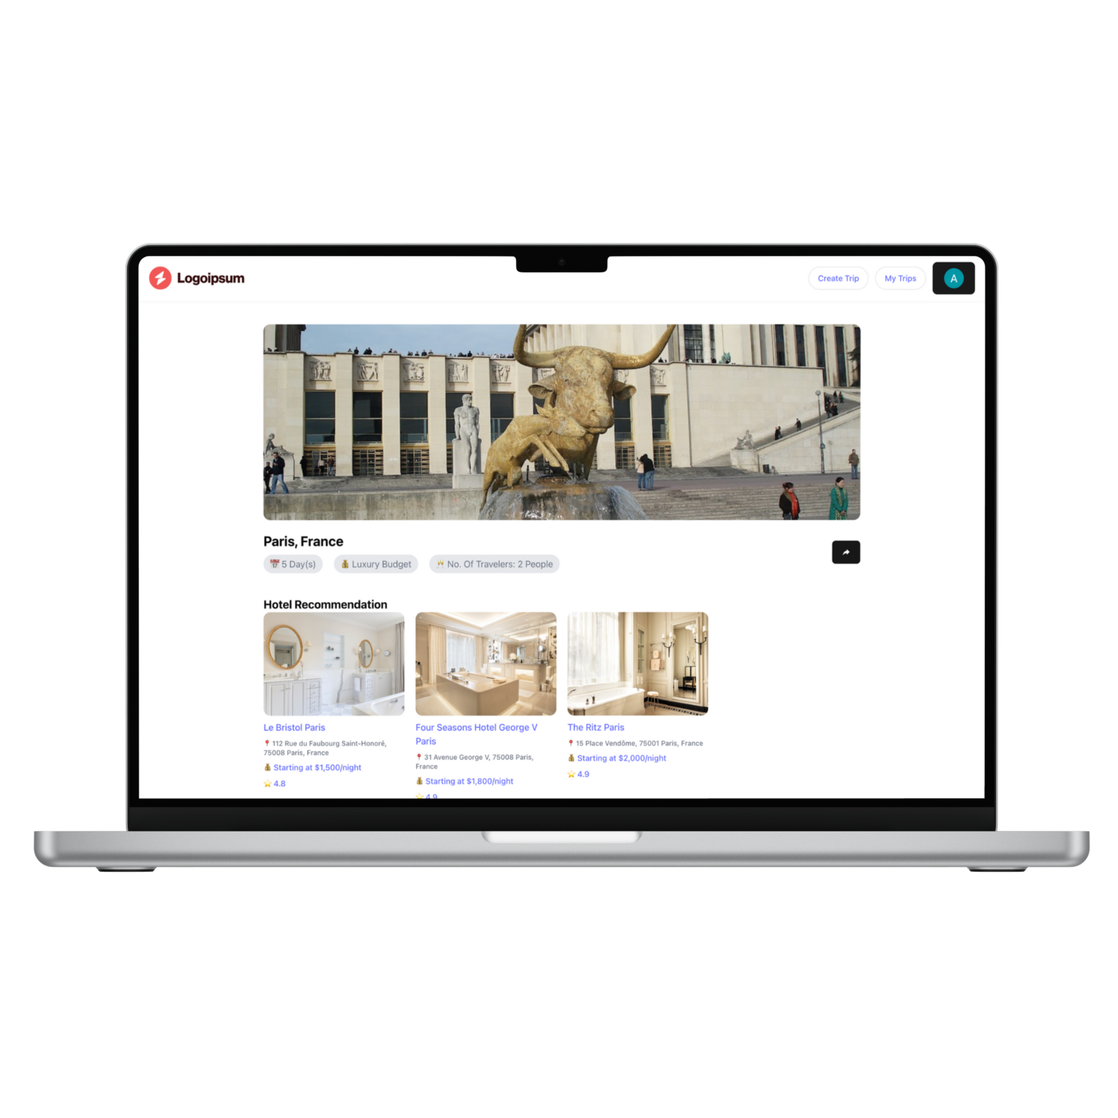
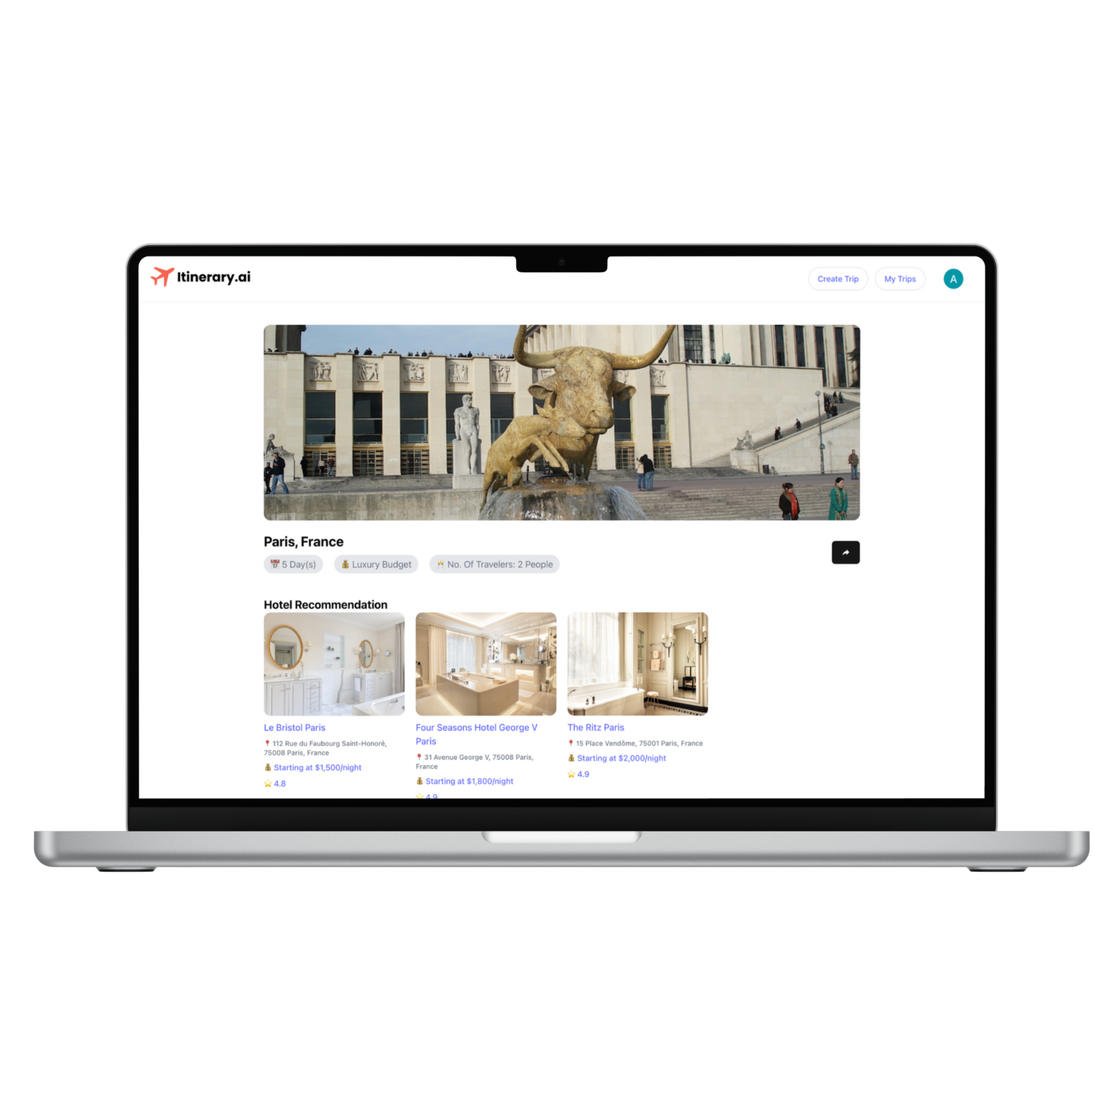
Final Touches

diff --git a/src/service/AIModel.jsx b/src/service/AIModel.jsx
@@ -22,13 +22,13 @@ import { GoogleGenerativeAI } from "@google/generative-ai";
         {
           role: "user",
           parts: [
-            {text: "Generate a Travel Plan for Location: Las Vegas, for 3 Days for Couple with a Cheap Budget, give me a hotels option list with hotel name, hotel address, price, hotel image url, geo coordinates, rating, descriptions, and suggest an itinerary with the time at each place (i.e. 1:00 PM - 4:00 PM), place name, place details, place image url, geo coordinates, ticket pricing, rating, and time to travel to each location for 3 days with each day plan with best time to visit in JSON format. For the days for the itinerary, in JSON format, make sure that it is indexed in a list, so index 0 would have day: Day 1, index 1 would have day: Day 2, and the same for the rest of the days."},
+            {text: "Generate a Travel Plan for Location: Las Vegas, for 3 Days for Couple with a Cheap Budget, give me a hotels option list with hotel name, hotel address, price, hotel image url, geo coordinates, rating, descriptions, and suggest an itinerary with the time at each place (i.e. 1:00 PM - 4:00 PM), place name, place details, place image url, geo coordinates, ticket pricing, rating, and time to travel to each of the location (in hours or minutes or both, not just words) for 3 days with each day plan with best time to visit in JSON format. For the days for the itinerary, in JSON format, make sure that it is indexed in a list, so index 0 would have day: Day 1, index 1 would have day: Day 2, and the same for the rest of the days."},
           ],
         },
         {
           role: "model",
           parts: [
-            {text: "```json\n{\n  \"location\": \"Las Vegas\",\n  \"duration\": \"3 Days\",\n  \"budget\": \"Cheap\",\n    \"hotels\": [\n    {\n      \"hotel_name\": \"Circus Circus Hotel & Casino\",\n      \"hotel_address\": \"2880 S Las Vegas Blvd, Las Vegas, NV 89109\",\n      \"price\": \"Starting at $40/night\",\n      \"hotel_image_url\": \"https://dynamic-media-cdn.tripadvisor.com/media/photo-o/26/01/5d/85/circus-circus-hotel-casino.jpg?w=700&h=-1&s=1\",\n      \"geo_coordinates\": {\n        \"latitude\": 36.1440,\n        \"longitude\": -115.1699\n      },\n      \"rating\": 3.5,\n      \"description\": \"A classic Vegas hotel with a circus theme, offering affordable rooms and family-friendly entertainment.  Features a large casino, free circus acts, and the Adventuredome indoor theme park.\"\n    },\n    {\n      \"hotel_name\": \"Excalibur Hotel & Casino\",\n        \"hotel_address\": \"3850 S Las Vegas Blvd, Las Vegas, NV 89109\",\n        \"price\": \"Starting at $50/night\",\n        \"hotel_image_url\": \"https://dynamic-media-cdn.tripadvisor.com/media/photo-o/27/c3/1c/43/excalibur-hotel-casino.jpg?w=700&h=-1&s=1\",\n        \"geo_coordinates\": {\n          \"latitude\": 36.0983,\n          \"longitude\": -115.1703\n        },\n        \"rating\": 4.0,\n        \"description\": \"A medieval-themed hotel known for its castle design and affordable accommodations. Offers several dining options, a pool complex, and nightly shows.\"\n    },\n    {\n        \"hotel_name\": \"The LINQ Hotel + Experience\",\n        \"hotel_address\": \"3535 S Las Vegas Blvd, Las Vegas, NV 89109\",\n        \"price\": \"Starting at $60/night\",\n        \"hotel_image_url\": \"https://dynamic-media-cdn.tripadvisor.com/media/photo-o/27/c9/c9/2e/the-linq-hotel-experience.jpg?w=700&h=-1&s=1\",\n        \"geo_coordinates\": {\n          \"latitude\": 36.1171,\n            \"longitude\": -115.1691\n        },\n        \"rating\": 4.2,\n        \"description\":\"Modern hotel with a vibrant atmosphere, featuring a variety of shops, restaurants, and the High Roller observation wheel. Centrally located on the Strip.\"\n    }\n  ],\n    \"itinerary\": [\n      {\n        \"day\": \"Day 1\",\n        \"best_time_to_visit\": \"Morning and Afternoon\",\n          \"activities\": [\n            {\n              \"time\": \"9:00 AM - 11:00 AM\",\n              \"place_name\": \"Welcome to Las Vegas Sign\",\n              \"place_details\": \"Iconic Las Vegas landmark, great for photos. Quick stop.\",\n              \"place_image_url\": \"https://upload.wikimedia.org/wikipedia/commons/thumb/f/f7/Welcome_to_Las_Vegas_sign.jpg/1280px-Welcome_to_Las_Vegas_sign.jpg\",\n              \"geo_coordinates\": {\n                  \"latitude\": 36.0824,\n                  \"longitude\": -115.1723\n                },\n              \"ticket_pricing\": \"Free\",\n              \"rating\": 4.5,\n                \"travel_time_to_next_location\": \"15 minutes by Bus\"\n             },\n             {\n                \"time\": \"11:30 AM - 2:00 PM\",\n                \"place_name\": \"Bellagio Conservatory & Botanical Garden\",\n                \"place_details\": \"Beautiful indoor botanical garden with seasonal displays. Free to enter.\",\n                \"place_image_url\": \"https://dynamic-media-cdn.tripadvisor.com/media/photo-o/22/a5/8b/1a/bellagio-conservatory-botanical.jpg?w=700&h=-1&s=1\",\n                \"geo_coordinates\": {\n                    \"latitude\": 36.1126,\n                    \"longitude\": -115.1738\n                },\n                \"ticket_pricing\": \"Free\",\n                \"rating\": 4.7,\n                \"travel_time_to_next_location\":\"10 minute walk\"\n            },\n            {\n               \"time\":\"2:10 PM - 4:00 PM\",\n               \"place_name\": \"Fountains of Bellagio\",\n               \"place_details\":\"World-famous water show in front of the Bellagio Hotel. Best viewed from the street.\",\n               \"place_image_url\":\"https://dynamic-media-cdn.tripadvisor.com/media/photo-o/25/64/66/54/fountains-of-bellagio.jpg?w=700&h=-1&s=1\",\n               \"geo_coordinates\": {\n                \"latitude\": 36.1128,\n                \"longitude\": -115.1741\n            },\n                \"ticket_pricing\": \"Free\",\n                \"rating\": 4.8,\n                \"travel_time_to_next_location\":\"10 minute walk\"\n            },\n            {\n                \"time\":\"4:10 PM - 7:00 PM\",\n                \"place_name\": \"Explore the Strip\",\n                \"place_details\": \"Walk down the Las Vegas Strip, enjoy the free sights, and street performers. Explore the different hotels.\",\n               \"place_image_url\": \"https://www.travelandleisure.com/thmb/qU04dYxY-lX6H8y9uE1hB5B8G8E=/1500x0/filters:no_upscale():max_bytes(150000):strip_icc()/las-vegas-strip-night-LVSTRIP0421-83662d8f24364378898303b220d2f98c.jpg\",\n                \"geo_coordinates\": {\n                    \"latitude\": 36.1162,\n                    \"longitude\": -115.1730\n                },\n                \"ticket_pricing\":\"Free\",\n                \"rating\": 4.6,\n                 \"travel_time_to_next_location\":\"10 minute walk to restaurant\"\n            },\n            {\n              \"time\": \"7:00 PM - 9:00 PM\",\n              \"place_name\":\"Cheap Dinner on the Strip\",\n               \"place_details\":\"Look for affordable eats on the Strip, such as fast food or food court options.\",\n               \"place_image_url\":\"https://fastly.4sqi.net/img/general/600x600/5039373_i_V_Hw-t_eJ84FhBf-K8oB-YdO-tZ8VlP9O64Qv269k.jpg\",\n                \"geo_coordinates\": {\n                  \"latitude\": 36.1162,\n                   \"longitude\": -115.1730\n                },\n              \"ticket_pricing\":\"Varies ($10-20 per person)\",\n                \"rating\": 4.0,\n               \"travel_time_to_next_location\":\"Bus ride back to hotel (15-20 min)\"\n            }\n         ]\n      },\n      {\n        \"day\": \"Day 2\",\n        \"best_time_to_visit\": \"Morning and Afternoon\",\n        \"activities\": [\n          {\n            \"time\": \"9:00 AM - 11:00 AM\",\n            \"place_name\": \"Fremont Street Experience\",\n            \"place_details\": \"Explore the pedestrian mall, see the Viva Vision light show. (Best at night but still worth a visit in the day).\",\n            \"place_image_url\": \"https://www.vegasexperience.com/wp-content/uploads/2020/07/Fremont-Street-Experience-Day-1024x768.jpg\",\n            \"geo_coordinates\": {\n              \"latitude\": 36.1707,\n              \"longitude\": -115.1402\n            },\n            \"ticket_pricing\": \"Free\",\n            \"rating\": 4.5,\n             \"travel_time_to_next_location\": \"20 minute drive\"\n          },\n           {\n              \"time\": \"11:20 AM - 1:00 PM\",\n              \"place_name\":\"The LINQ Promenade\",\n              \"place_details\":\"An outdoor shopping, dining, and entertainment district with many unique stores.\",\n               \"place_image_url\":\"https://media.cntraveler.com/photos/582665590f6c575a3e96615d/16:9/w_2560%2Cc_limit/linq-promenade-las-vegas-cr-getty.jpg\",\n              \"geo_coordinates\": {\n                  \"latitude\":36.1170,\n                  \"longitude\": -115.1696\n              },\n              \"ticket_pricing\": \"Free to enter\",\n               \"rating\": 4.4,\n              \"travel_time_to_next_location\":\"10 minute walk\"\n           },\n           {\n              \"time\":\"1:10 PM - 3:00 PM\",\n              \"place_name\":\"High Roller Observation Wheel\",\n              \"place_details\":\"Enjoy fantastic views of the Las Vegas Strip from a giant observation wheel.\",\n                \"place_image_url\":\"https://dynamic-media-cdn.tripadvisor.com/media/photo-o/22/6d/89/11/high-roller-observation.jpg?w=700&h=-1&s=1\",\n              \"geo_coordinates\": {\n                 \"latitude\": 36.1167,\n                 \"longitude\": -115.1692\n               },\n              \"ticket_pricing\": \"$28 per person\",\n               \"rating\": 4.6,\n              \"travel_time_to_next_location\": \"5 min walk\"\n           },\n            {\n                \"time\":\"3:10 PM - 5:00 PM\",\n                \"place_name\":\"Explore the LINQ Hotel\",\n                \"place_details\":\"Explore the unique shops and restaurants inside the LINQ Hotel\",\n                \"place_image_url\":\"https://dynamic-media-cdn.tripadvisor.com/media/photo-o/27/99/b4/09/the-linq-hotel-experience.jpg?w=700&h=-1&s=1\",\n                 \"geo_coordinates\": {\n                   \"latitude\": 36.1171,\n                    \"longitude\":-115.1691\n                },\n                 \"ticket_pricing\":\"Free\",\n                \"rating\":4.3,\n                \"travel_time_to_next_location\": \"5 min walk to dinner\"\n            },\n          {\n            \"time\":\"5:10 PM - 7:00 PM\",\n            \"place_name\": \"Dinner at In-N-Out Burger\",\n            \"place_details\": \"Classic West Coast burger chain for a budget-friendly and tasty meal.\",\n            \"place_image_url\":\"https://lh3.googleusercontent.com/p/AF1QipNzM40bV_sQz9n9L8vE0v9Hn9lZ09b0Z8dI_7Y7=s1360-w1360-h1020\",\n            \"geo_coordinates\": {\n               \"latitude\": 36.1112,\n              \"longitude\": -115.1713\n           },\n              \"ticket_pricing\":\"Varies ($10-15 per person)\",\n              \"rating\":4.3,\n             \"travel_time_to_next_location\":\"Bus ride back to hotel (15-20 min)\"\n          }\n        ]\n    },\n      {\n        \"day\": \"Day 3\",\n         \"best_time_to_visit\": \"Morning\",\n        \"activities\": [\n          {\n            \"time\": \"9:00 AM - 11:00 AM\",\n            \"place_name\": \"Visit the M&M's World and Coca-Cola Store\",\n            \"place_details\":\"Located right next to each other, these stores provide fun and interactive shopping experiences.\",\n              \"place_image_url\":\"https://dynamic-media-cdn.tripadvisor.com/media/photo-o/0b/36/c3/2d/mm-s-world.jpg?w=700&h=-1&s=1\",\n            \"geo_coordinates\": {\n                \"latitude\": 36.1067,\n                \"longitude\": -115.1709\n             },\n            \"ticket_pricing\": \"Free to browse\",\n              \"rating\":4.2,\n              \"travel_time_to_next_location\": \"5 minute walk\"\n\n          },\n          {\n            \"time\":\"11:10 AM - 1:00 PM\",\n            \"place_name\": \"Explore the Venetian Canals\",\n            \"place_details\": \"Walk through the indoor canals of the Venetian Hotel and admire the architecture.\",\n            \"place_image_url\":\"https://dynamic-media-cdn.tripadvisor.com/media/photo-o/20/7f/9e/06/gondola-ride-inside-the.jpg?w=700&h=-1&s=1\",\n              \"geo_coordinates\": {\n                  \"latitude\": 36.1212,\n                  \"longitude\":-115.1698\n              },\n            \"ticket_pricing\":\"Free to walk around (Gondola ride extra)\",\n            \"rating\": 4.6,\n            \"travel_time_to_next_location\": \"5 minute walk\"\n          },\n          {\n            \"time\": \"1:10 PM - 2:00 PM\",\n              \"place_name\": \"Lunch at a Food Court\",\n              \"place_details\":\"Grab a final, affordable meal at a food court before heading to the airport.\",\n            \"place_image_url\":\"https://fastly.4sqi.net/img/general/600x600/1443716_Tj-9qT3xL7z_W0aYyvjG-e_kY775jM1j592G-lBf2u8.jpg\",\n              \"geo_coordinates\":{\n                \"latitude\": 36.1212,\n                \"longitude\": -115.1698\n              },\n             \"ticket_pricing\":\"Varies ($10-15 per person)\",\n              \"rating\":4.1,\n               \"travel_time_to_next_location\":\"Travel to Airport\"\n         }\n        ]\n      }\n    ]\n}\n```"},
+            {text: "```json\n{\n  \"hotels\": [\n    {\n      \"hotel_name\": \"Circus Circus Hotel & Casino\",\n      \"hotel_address\": \"2880 S Las Vegas Blvd, Las Vegas, NV 89109\",\n      \"price\": \"50-100\",\n      \"hotel_image_url\": \"https://example.com/circus_circus.jpg\",\n       \"geo_coordinates\": {\n        \"latitude\": 36.1426,\n        \"longitude\": -115.1683\n      },\n      \"rating\": 3.9,\n      \"description\": \"A classic Las Vegas hotel with a circus theme, budget-friendly rooms, and family-friendly attractions.\"\n    },\n    {\n      \"hotel_name\": \"Excalibur Hotel & Casino\",\n      \"hotel_address\": \"3850 S Las Vegas Blvd, Las Vegas, NV 89109\",\n       \"price\": \"60-120\",\n      \"hotel_image_url\": \"https://example.com/excalibur.jpg\",\n        \"geo_coordinates\": {\n        \"latitude\": 36.0989,\n        \"longitude\": -115.1744\n      },\n      \"rating\": 4.1,\n       \"description\": \"A medieval-themed hotel on the south end of the Strip with affordable room rates and a variety of entertainment options.\"\n     },\n   {\n      \"hotel_name\": \"OYO Hotel & Casino Las Vegas\",\n       \"hotel_address\": \"115 E Tropicana Ave, Las Vegas, NV 89109\",\n        \"price\": \"40-90\",\n        \"hotel_image_url\": \"https://example.com/oyo_las_vegas.jpg\",\n         \"geo_coordinates\": {\n        \"latitude\": 36.1016,\n        \"longitude\": -115.1685\n      },\n        \"rating\": 3.5,\n        \"description\": \"A budget-friendly hotel near the Las Vegas Strip, offering simple accommodations and a casino.\"\n    }\n  ],\n  \"itinerary\": [\n    {\n       \"day\": \"Day 1\",\n      \"best_time_to_visit\": \"Morning to evening\",\n       \"activities\": [\n        {\n          \"time\": \"10:00 AM - 12:00 PM\",\n          \"place_name\": \"Welcome to Fabulous Las Vegas Sign\",\n          \"place_details\": \"A must-see iconic landmark for a photo opportunity.\",\n           \"place_image_url\": \"https://example.com/welcome_sign.jpg\",\n            \"geo_coordinates\": {\n            \"latitude\": 36.0828,\n            \"longitude\": -115.1726\n          },\n          \"ticket_pricing\": \"Free\",\n          \"rating\": 4.6,\n           \"travel_time\": \"15 minutes\"\n        },\n          {\n          \"time\": \"12:30 PM - 2:30 PM\",\n          \"place_name\": \"Bellagio Conservatory & Botanical Gardens\",\n          \"place_details\": \"Stunning floral displays that change seasonally. Indoor, so great to beat the heat.\",\n          \"place_image_url\": \"https://example.com/bellagio_gardens.jpg\",\n           \"geo_coordinates\": {\n              \"latitude\": 36.1127,\n              \"longitude\": -115.1742\n            },\n          \"ticket_pricing\": \"Free\",\n          \"rating\": 4.7,\n          \"travel_time\": \"20 minutes\"\n        },\n        {\n            \"time\": \"3:00 PM - 4:30 PM\",\n            \"place_name\": \"Fremont Street Experience\",\n             \"place_details\":\"Enjoy the pedestrian mall with free light shows and street performers.\",\n            \"place_image_url\": \"https://example.com/fremont_street.jpg\",\n            \"geo_coordinates\": {\n              \"latitude\": 36.1701,\n               \"longitude\": -115.1400\n            },\n             \"ticket_pricing\":\"Free\",\n             \"rating\": 4.5,\n             \"travel_time\":\"20 minutes\"\n        },\n         {\n           \"time\": \"5:00 PM - 7:00 PM\",\n          \"place_name\": \"Free Show at Mirage Volcano\",\n          \"place_details\":\"Watch an erupting volcano at The Mirage.\",\n          \"place_image_url\": \"https://example.com/mirage_volcano.jpg\",\n           \"geo_coordinates\": {\n              \"latitude\": 36.1217,\n              \"longitude\": -115.1757\n            },\n          \"ticket_pricing\":\"Free\",\n          \"rating\": 4.5,\n           \"travel_time\": \"10 minutes\"\n\n         },\n         {\n           \"time\": \"7:30 PM - 9:00 PM\",\n           \"place_name\": \"Cheap Dinner at In-N-Out Burger\",\n           \"place_details\":\"Enjoy affordable and delicious burgers.\",\n           \"place_image_url\":\"https://example.com/innout.jpg\",\n            \"geo_coordinates\": {\n               \"latitude\": 36.1203,\n               \"longitude\": -115.1702\n            },\n           \"ticket_pricing\":\"$10-20\",\n           \"rating\": 4.4,\n            \"travel_time\": \"5 minutes\"\n         }\n       ]\n    },\n     {\n        \"day\": \"Day 2\",\n      \"best_time_to_visit\":\"Morning to afternoon\",\n      \"activities\": [\n       {\n            \"time\": \"9:00 AM - 11:00 AM\",\n            \"place_name\": \"High Roller Observation Wheel (Exterior Views)\",\n            \"place_details\":\"View the enormous wheel and its exterior from the ground.\",\n            \"place_image_url\": \"https://example.com/high_roller.jpg\",\n             \"geo_coordinates\": {\n               \"latitude\": 36.1164,\n                \"longitude\": -115.1684\n             },\n             \"ticket_pricing\":\"Free\",\n            \"rating\": 4.0,\n            \"travel_time\":\"10 minutes\"\n       },\n       {\n            \"time\": \"11:30 AM - 1:30 PM\",\n            \"place_name\": \"The LINQ Promenade\",\n             \"place_details\":\"Walk through this open-air mall, with shops and restaurants.\",\n            \"place_image_url\": \"https://example.com/linq_promenade.jpg\",\n             \"geo_coordinates\": {\n                \"latitude\": 36.1173,\n                 \"longitude\": -115.1707\n             },\n           \"ticket_pricing\": \"Free\",\n           \"rating\": 4.3,\n            \"travel_time\":\"5 minutes\"\n       },\n         {\n           \"time\": \"2:00 PM - 4:00 PM\",\n           \"place_name\": \"Explore the Venetian Hotel (Interior)\",\n           \"place_details\":\"Wander through the canals and beautiful interiors of The Venetian.\",\n           \"place_image_url\": \"https://example.com/venetian_hotel.jpg\",\n             \"geo_coordinates\": {\n              \"latitude\": 36.1218,\n               \"longitude\": -115.1696\n             },\n           \"ticket_pricing\":\"Free\",\n           \"rating\": 4.6,\n           \"travel_time\":\"10 minutes\"\n         },\n          {\n          \"time\":\"4:30 PM - 6:00 PM\",\n          \"place_name\":\"M&M's World\",\n          \"place_details\":\"A colorful and fun retail experience.\",\n          \"place_image_url\":\"https://example.com/mms_world.jpg\",\n           \"geo_coordinates\": {\n               \"latitude\": 36.1014,\n                \"longitude\": -115.1714\n           },\n           \"ticket_pricing\":\"Free\",\n           \"rating\":4.4,\n           \"travel_time\":\"15 minutes\"\n        },\n        {\n          \"time\": \"6:30 PM - 8:00 PM\",\n          \"place_name\":\"Cheap Eats at a Food Court\",\n          \"place_details\":\"Enjoy affordable and varied options at a food court on the strip.\",\n          \"place_image_url\":\"https://example.com/food_court.jpg\",\n            \"geo_coordinates\": {\n                \"latitude\": 36.1055,\n                \"longitude\": -115.1723\n              },\n           \"ticket_pricing\":\"$15-25\",\n           \"rating\": 4.2,\n           \"travel_time\": \"10 minutes\"\n\n        }\n      ]\n    },\n    {\n        \"day\": \"Day 3\",\n      \"best_time_to_visit\": \"Morning\",\n      \"activities\": [\n          {\n             \"time\": \"9:00 AM - 11:00 AM\",\n             \"place_name\":\"Seven Magic Mountains\",\n             \"place_details\":\"A colorful desert art installation located south of Las Vegas. Great for pictures.\",\n              \"place_image_url\":\"https://example.com/seven_magic.jpg\",\n               \"geo_coordinates\": {\n                 \"latitude\": 35.8886,\n                 \"longitude\": -115.2505\n                 },\n             \"ticket_pricing\":\"Free\",\n             \"rating\":4.4,\n             \"travel_time\":\"20-30 minutes\"\n          },\n        {\n            \"time\":\"11:30 AM - 1:00 PM\",\n           \"place_name\":\"Explore the Pawn Stars Shop\",\n            \"place_details\":\"See the famous pawn shop from the show. (Note: actual owners not always present).\",\n            \"place_image_url\":\"https://example.com/pawn_shop.jpg\",\n             \"geo_coordinates\": {\n                \"latitude\":36.1593,\n                \"longitude\": -115.1477\n              },\n            \"ticket_pricing\":\"Free\",\n             \"rating\": 4.0,\n            \"travel_time\":\"20-30 minutes\"\n        },\n         {\n              \"time\": \"1:30 PM - 3:00 PM\",\n               \"place_name\": \"Pinball Hall of Fame\",\n               \"place_details\":\"Play vintage and modern pinball machines.\",\n              \"place_image_url\": \"https://example.com/pinball_hall.jpg\",\n              \"geo_coordinates\": {\n                \"latitude\":36.1017,\n                \"longitude\": -115.1496\n              },\n               \"ticket_pricing\":\"$10-20 (to play pinball)\",\n               \"rating\": 4.6,\n              \"travel_time\":\"15 minutes\"\n         }\n\n        ]\n    }\n  ]\n}\n```"},
           ],
         },
       ],

diff --git a/src/constants/options.jsx b/src/constants/options.jsx
@@ -52,4 +52,4 @@ export const SelectBudgetOptions=[
 ]
 
 
-export const AI_PROMPT='Generate Travel Plan for Location : {location} for {totalDays} Days for {traveler} with a {budget} Budget, give me a hotels option list with hotel name, hotel address, price, hotel image url, geo coordinates, rating, descriptions, and suggest an itinerary with the time at each place (i.e. 1:00 PM - 4:00 PM), place name, place details, place image url, geo coordinates, ticket pricing, rating, and time to travel to each location for {totalDays} days with each day plan with best time to visit in JSON format. For the days for the itinerary, in JSON format, make sure that it is indexed in a list, so index 0 would have day: Day 1, index 1 would have day: Day 2, and the same for the rest of the days.'
+export const AI_PROMPT='Generate Travel Plan for Location : {location} for {totalDays} Days for {traveler} with a {budget} Budget, give me a hotels option list with hotel name, hotel address, price, hotel image url, geo coordinates, rating, descriptions, and suggest an itinerary with the time at each place (i.e. 1:00 PM - 4:00 PM), place name, place details, place image url, geo coordinates, ticket pricing, rating, and time to travel to each of the location (in hours or minutes or both, not just words) for {totalDays} days with each day plan with best time to visit in JSON format. For the days for the itinerary, in JSON format, make sure that it is indexed in a list, so index 0 would have day: Day 1, index 1 would have day: Day 2, and the same for the rest of the days.'

diff --git a/src/components/ui/custom/Header.jsx b/src/components/ui/custom/Header.jsx
@@ -49,10 +49,16 @@ const GetUserProfile = (tokenInfo) => {
   return (
     <div className='p-3 shadow-sm flex justify-between items-center px-5'>
       <a href='/'>
-      <Button variant="ghost">
-      <img src='/logo.svg' />
-      </Button>
-      </a>
+  <Button variant="ghost" className="p-0 hover:bg-transparent">
+    <div className="w-[200px] xs:w-[160px] md:w-[180px] h-auto aspect-[1750/398]"> {/* 4.44:1 ratio */}
+      <img 
+        src='/logo.png' 
+        className="w-full h-full object-contain" 
+        alt="Logo"
+      />
+    </div>
+  </Button>
+</a>
       <div>
         {user ?
           <div className='flex items-center gap-3'>

diff --git a/src/view-trip/components/PlaceCardItem.jsx b/src/view-trip/components/PlaceCardItem.jsx
@@ -30,7 +30,7 @@ function PlaceCardItem({ place }) {
                 <div>
                     <h2 className='font-bold text-lg'>{place.place_name}</h2>
                     <p className='text-sm text-gray-400'>{place.place_details}</p>
-                    <h2 className='mt-2'>🕙 {place.travel_time_to_next_location}</h2>
+                    <h2 className='mt-2'>🕙 {place.travel_time}</h2>
                     {/* <Button size="sm"><FaMapLocationDot /></Button> */}
                 </div>
             </div>

diff --git a/src/view-trip/components/Footer.jsx b/src/view-trip/components/Footer.jsx
@@ -3,7 +3,7 @@ import React from 'react'
 function Footer() {
   return (
     <div className='my-10'>
-        <h2 className='text-center text-gray-400'>AI Trip Planner Created By Arsh Sandhu</h2>
+        <h2 className='text-center text-gray-400'>AI Trip Planner Created By Arshdeep Sandhu</h2>
     </div>
   )
 }

diff --git a/src/index.css b/src/index.css
@@ -9,7 +9,7 @@
 
   color-scheme: light dark;
   color: rgba(255, 255, 255, 0.87);
-  background-color: #242424;
+  background-color: #ffffff;
 
   font-synthesis: none;
   text-rendering: optimizeLegibility;
